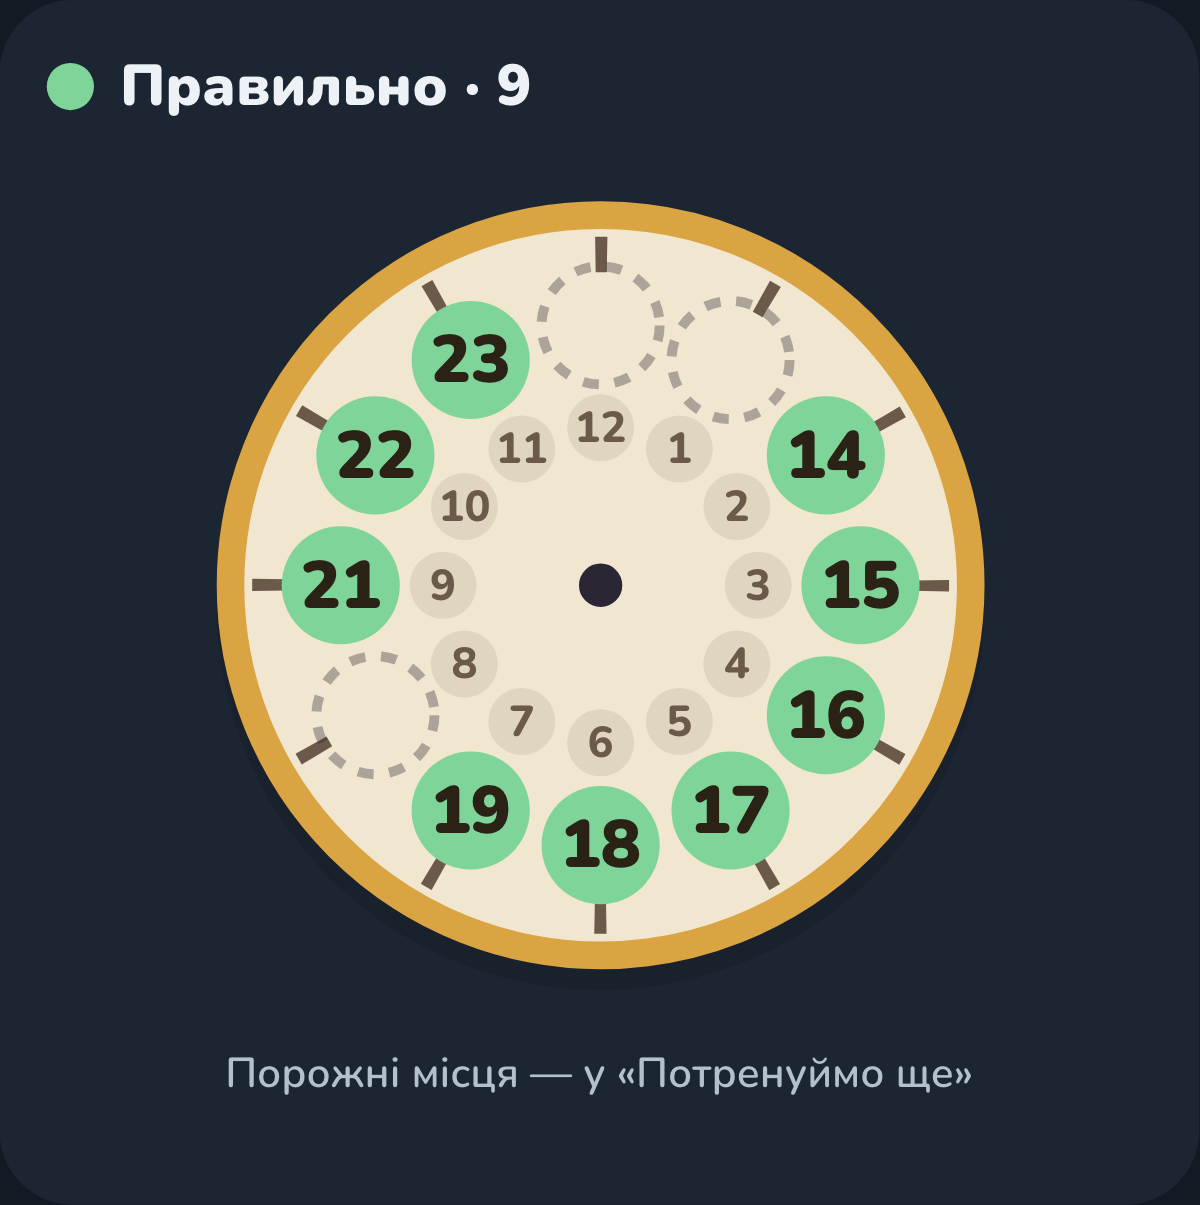
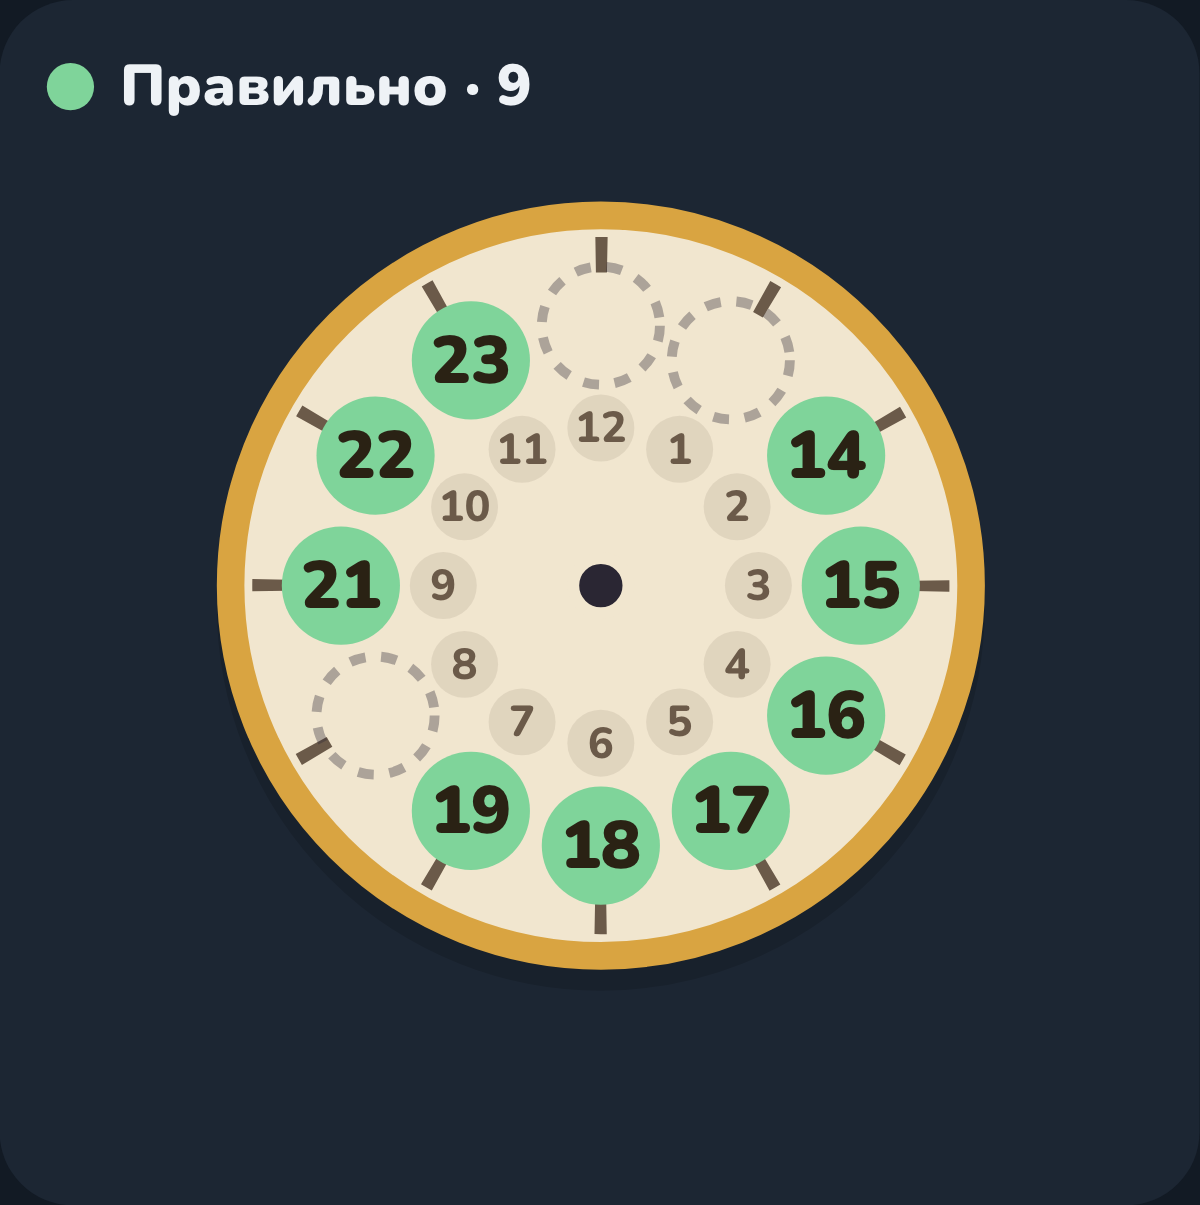
15: Board drops the caption under the green face
The author decided the Правильно face needs no caption: the empty
slots match the Потренуймо ще list on their own. The board picture is
re-rendered from the board.

diff --git a/docs/design/project/SummaryDragHoursTeach.dc.html b/docs/design/project/SummaryDragHoursTeach.dc.html
@@ -62,7 +62,6 @@ a{color:#f2b84b}a:hover{color:#ffd27a}
           <circle class="c-slot" cx="-0.0" cy="-66.0" r="15"></circle>
           <circle class="c-pin" r="7"></circle>
         </svg>
-        <div style="font-size: 16px; color: var(--muted); text-align: center">Порожні місця — у «Потренуймо ще»</div>
       </section>
       <section class="card" style="margin: 0; padding: 18px; display: flex; flex-direction: column; gap: 12px">
         <h2 style="margin: 0; font-size: 22px; font-weight: 900; display: flex; align-items: center; gap: 10px"><span class="dot bad"></span>Потренуймо ще · 3</h2>

diff --git a/docs/design/README.md b/docs/design/README.md
@@ -9,7 +9,7 @@ Static boards for every Teach Clock screen and state (ticket 01). They show the 
 - Boards are drawn in the dark theme (root `class="tc dark"`); the `Light*` boards show the light theme next to their dark twin. `Main.dc.html` shows both. The app itself still follows the device until the Player taps the toggle. Every header has the sun/moon toggle (`role="switch"`, `aria-checked` true in dark).
 - Welcome and Settings end with the Footer (Privacy, Contact). Phone boards are taller than 844 px because the Footer sits below the fold. The Privacy Page has one board (`Privacy.dc.html`): a text screen with Welcome's heading and button, the author's name and no Footer. In the app it lives at `/privacy-policy`; the static `privacy.html` for Google Play is rendered from the same screen (header with the brand only, Ukrainian then English, "До гри" as a link to the game).
 - Drag Hours has **Hours** (batch 14): `Settings` and `LightSettings` show the Години group (1–12 picked), `SettingsHours24` has 13–24 picked and the Drag Hours card follows it ("Перетягни числа 13–24…"); `PhoneDragHours24` is a 13–24 Teach Round with the Hour Badges and the wrong-drop popup ("19 стоїть між 18 і 20").
-- `SummaryDragHoursTeach` (batch 15, planned): the Teach Summary of a drag Game shows the right numbers green on a face, the helped ones' slots empty, instead of chips.
+- `SummaryDragHoursTeach` (batch 15): the Teach Summary of a drag Game shows the right numbers green on a face, the helped ones' slots empty, instead of chips. No caption under the face.
 - `project/canvas.json` is the canvas layout. Keep it in sync with `gallery.html` when boards are added or removed.
 
 ## Publishing to the online canvas
